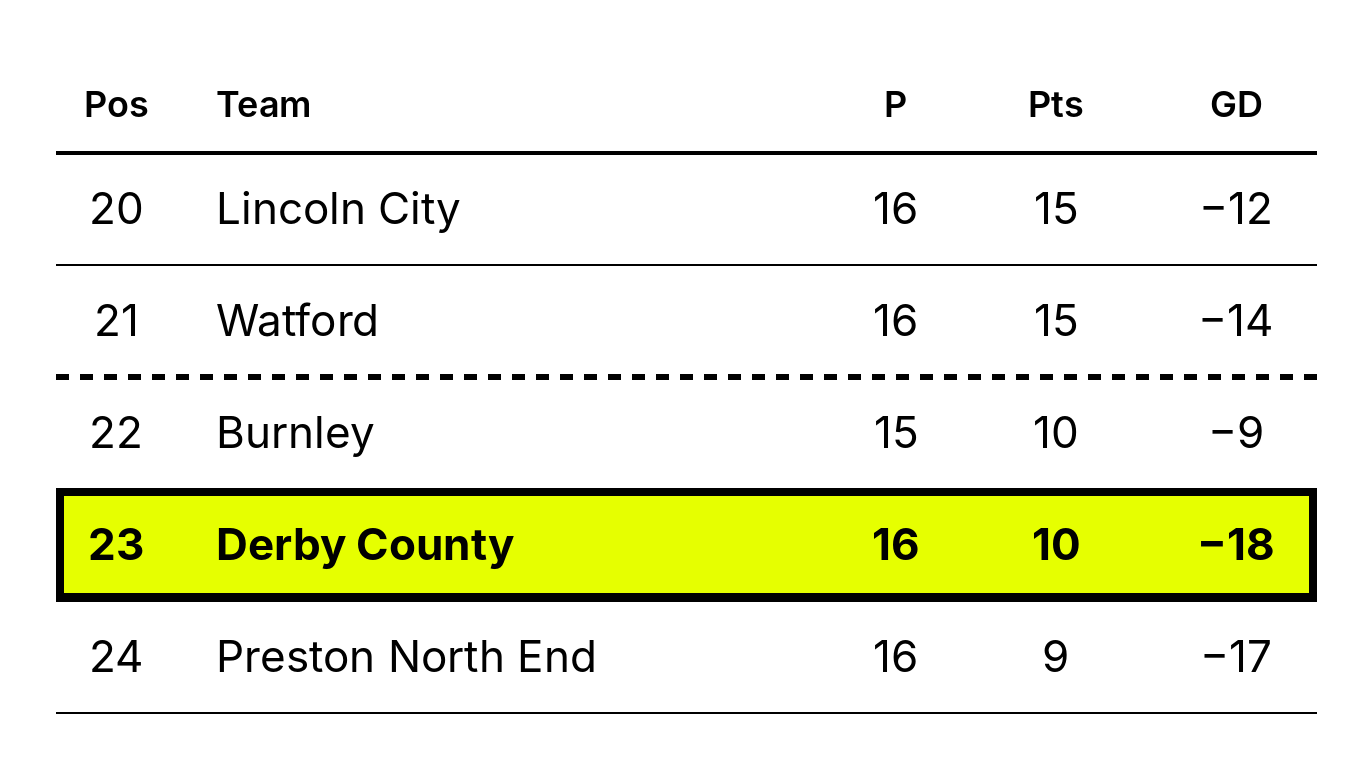
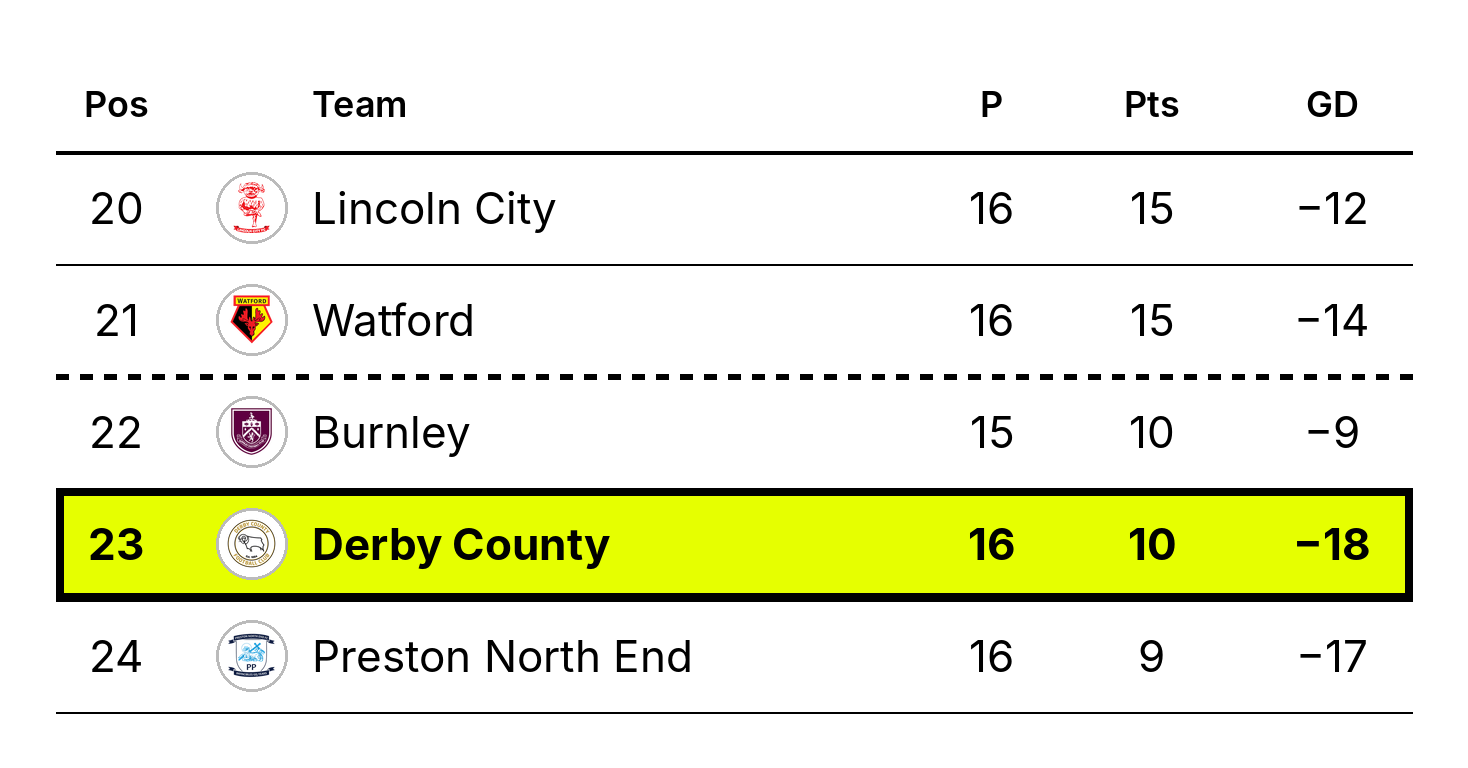
Add Championship club crests and regenerate Southampton standings image
Claude-Session: https://claude.ai/code/session_01VHUMkevqgxjGKP8iH8yrNa

diff --git a/tools/crests/README.md b/tools/crests/README.md
@@ -8,3 +8,8 @@ standings rows (lowercase, non-alphanumerics to hyphens):
 
 Transparent background preferred. `standings_image.py` draws each one as a
 small round avatar next to the team name and skips any that are missing.
+
+Current set: all 24 2026-27 Championship clubs, pulled from ESPN's team list
+(`site.api.espn.com/apis/site/v2/sports/soccer/eng.2/teams`, logos on
+`a.espncdn.com`) and resized to 128px. Re-run that for new seasons to pick up
+promoted/relegated clubs.
